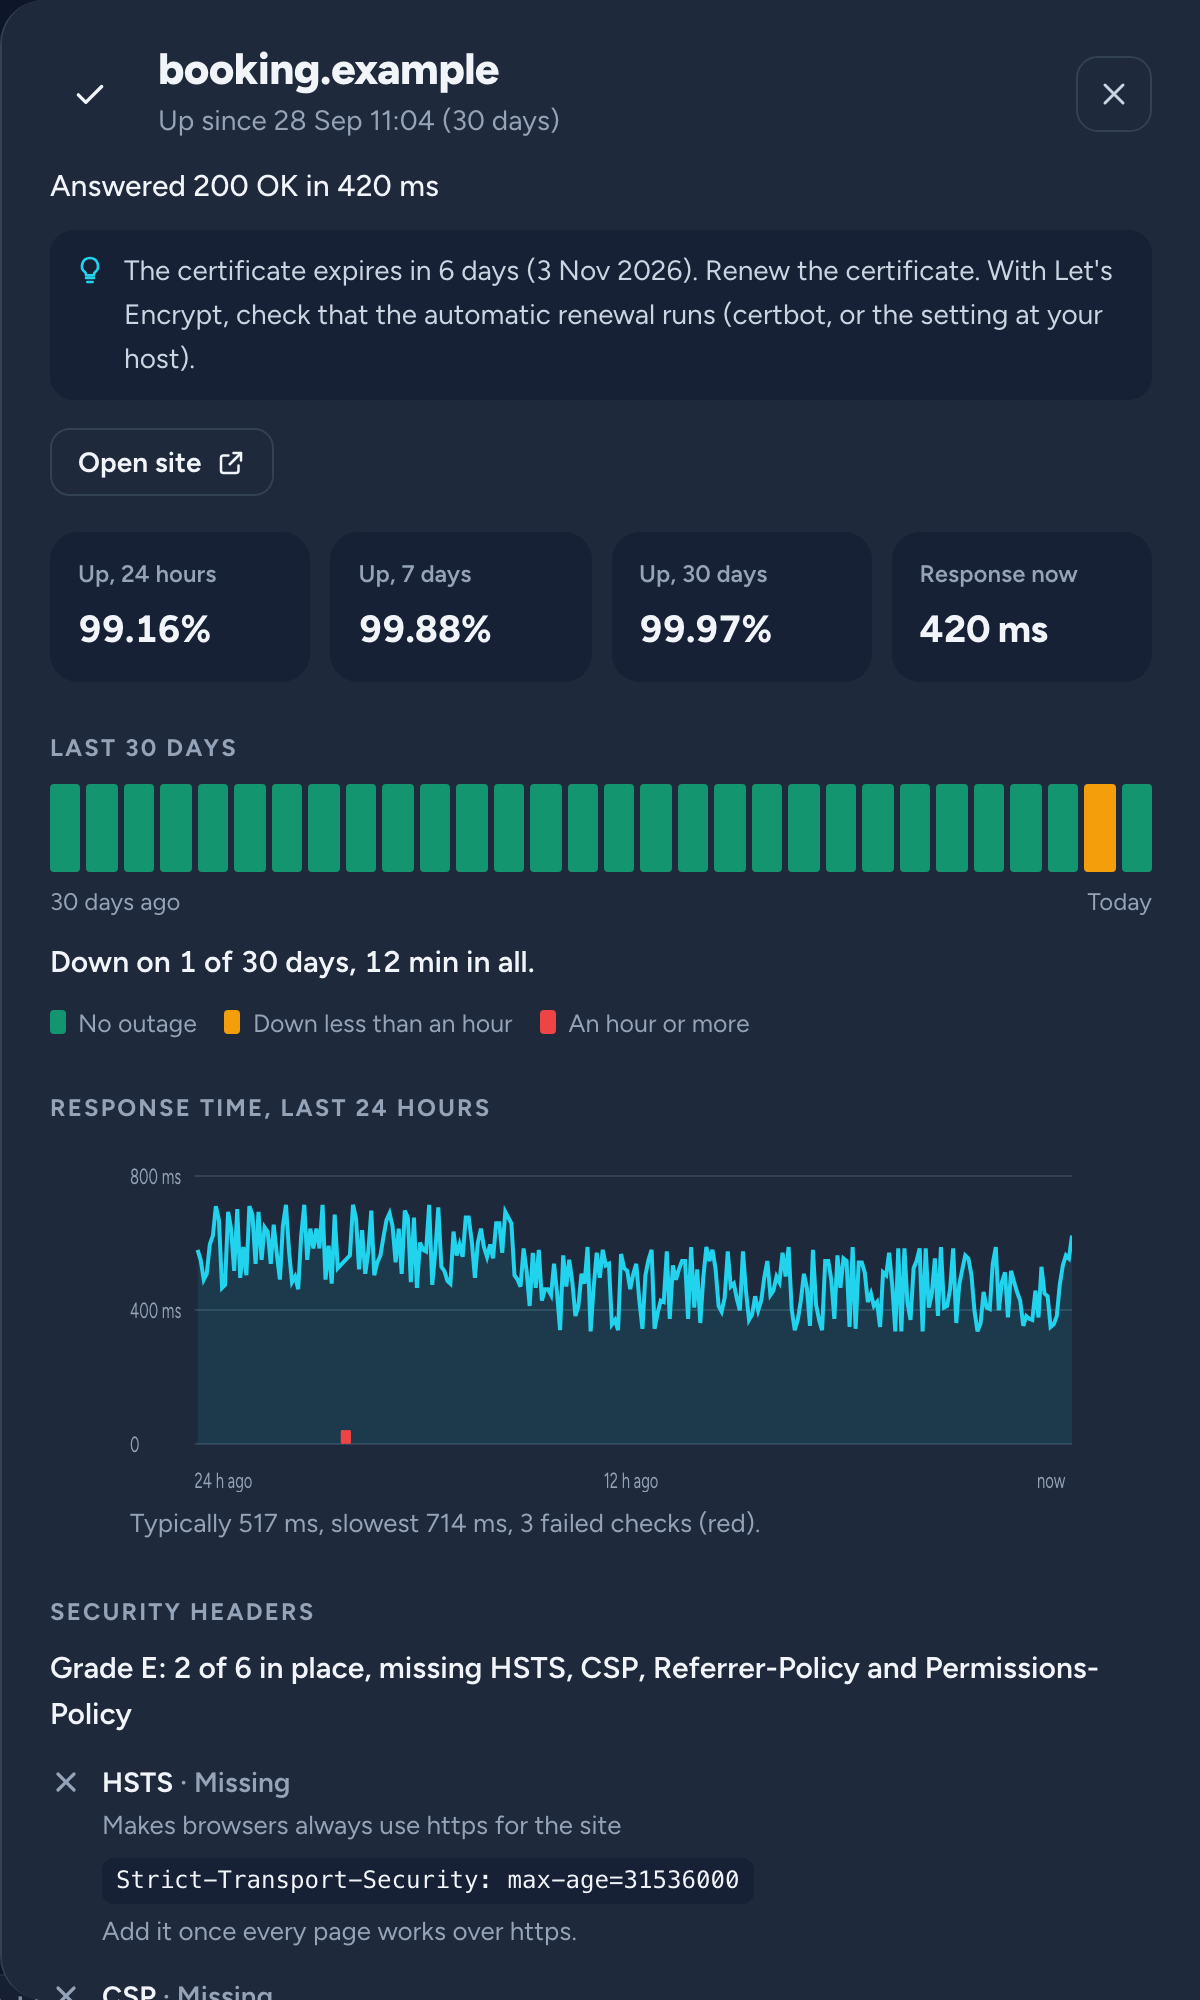
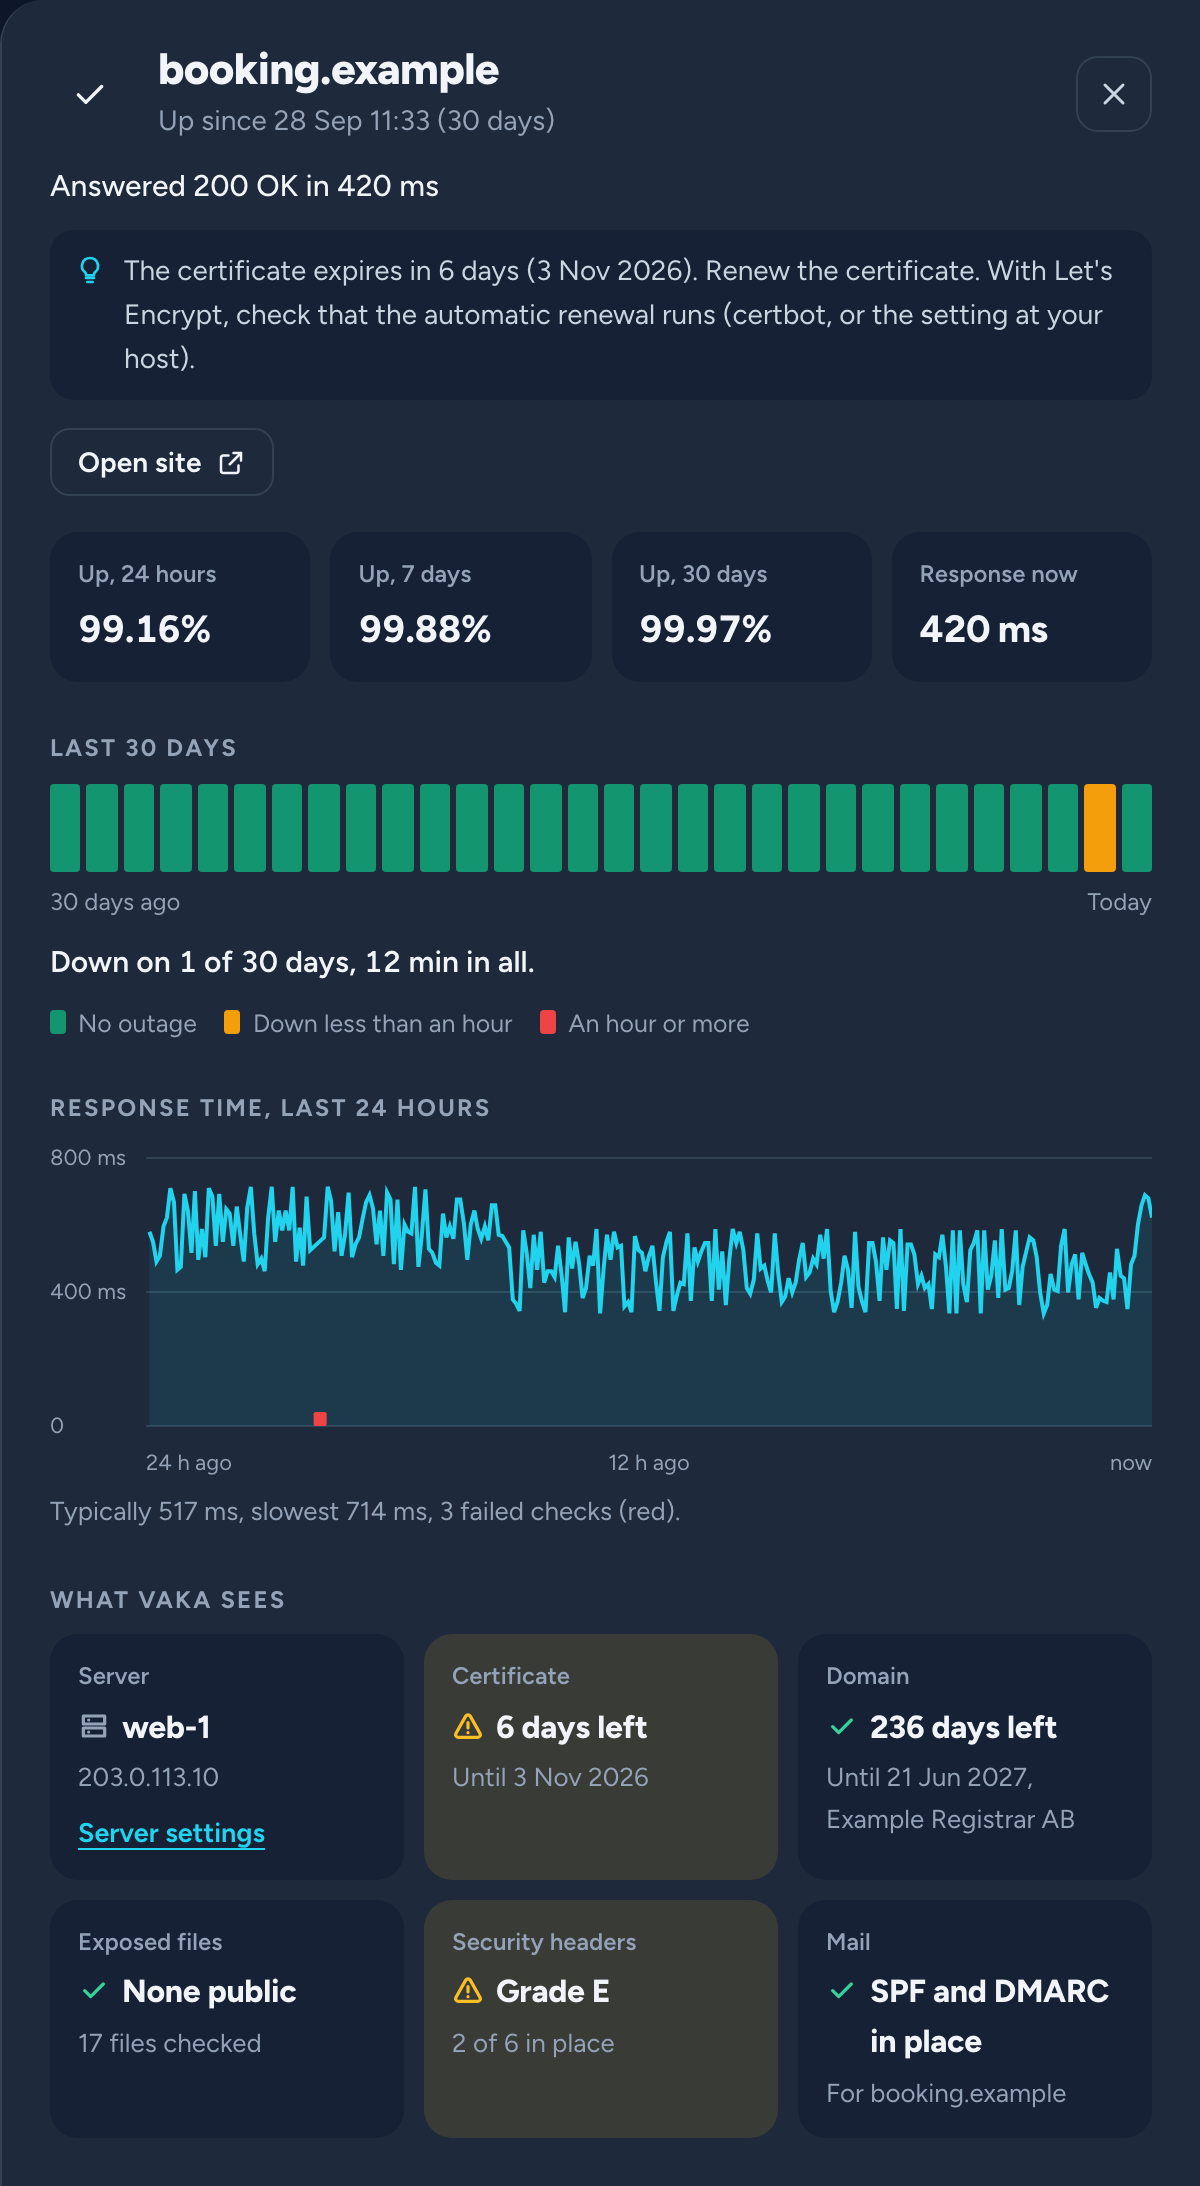
docs(readme): screenshots with the detail's tiles, cut under them
The detail was cut where a 1000px window ended, now in the middle of the
tiles; it is shot in a taller window and ends under them.

diff --git a/README.md b/README.md
@@ -72,9 +72,9 @@ Alerts go to Slack, a JSON webhook or email. Sites behind Cloudflare and other C
 <details>
 <summary>More screenshots</summary>
 
-**A site's detail:** uptime over 24 hours, 7 and 30 days, response times, its security headers and its history
+**A site's detail:** uptime over 24 hours, 7 and 30 days, what each day bar means, response times, and a tile per check: the server, the certificate, the domain, exposed files, the headers grade and mail
 
-<img alt="The detail of a site: uptime percentages, 30 days of bars, a response time chart and its security headers, each with what it does and the line to add" src="docs/screenshots/detail.png" width="600">
+<img alt="The detail of a site: uptime percentages, 30 days of bars with a line that sums them up and what the colours mean, a response time chart, and a tile for each of the server, the certificate (6 days left, in amber), the domain, exposed files, the security headers grade and mail" src="docs/screenshots/detail.png" width="600">
 
 **On a phone**
 
